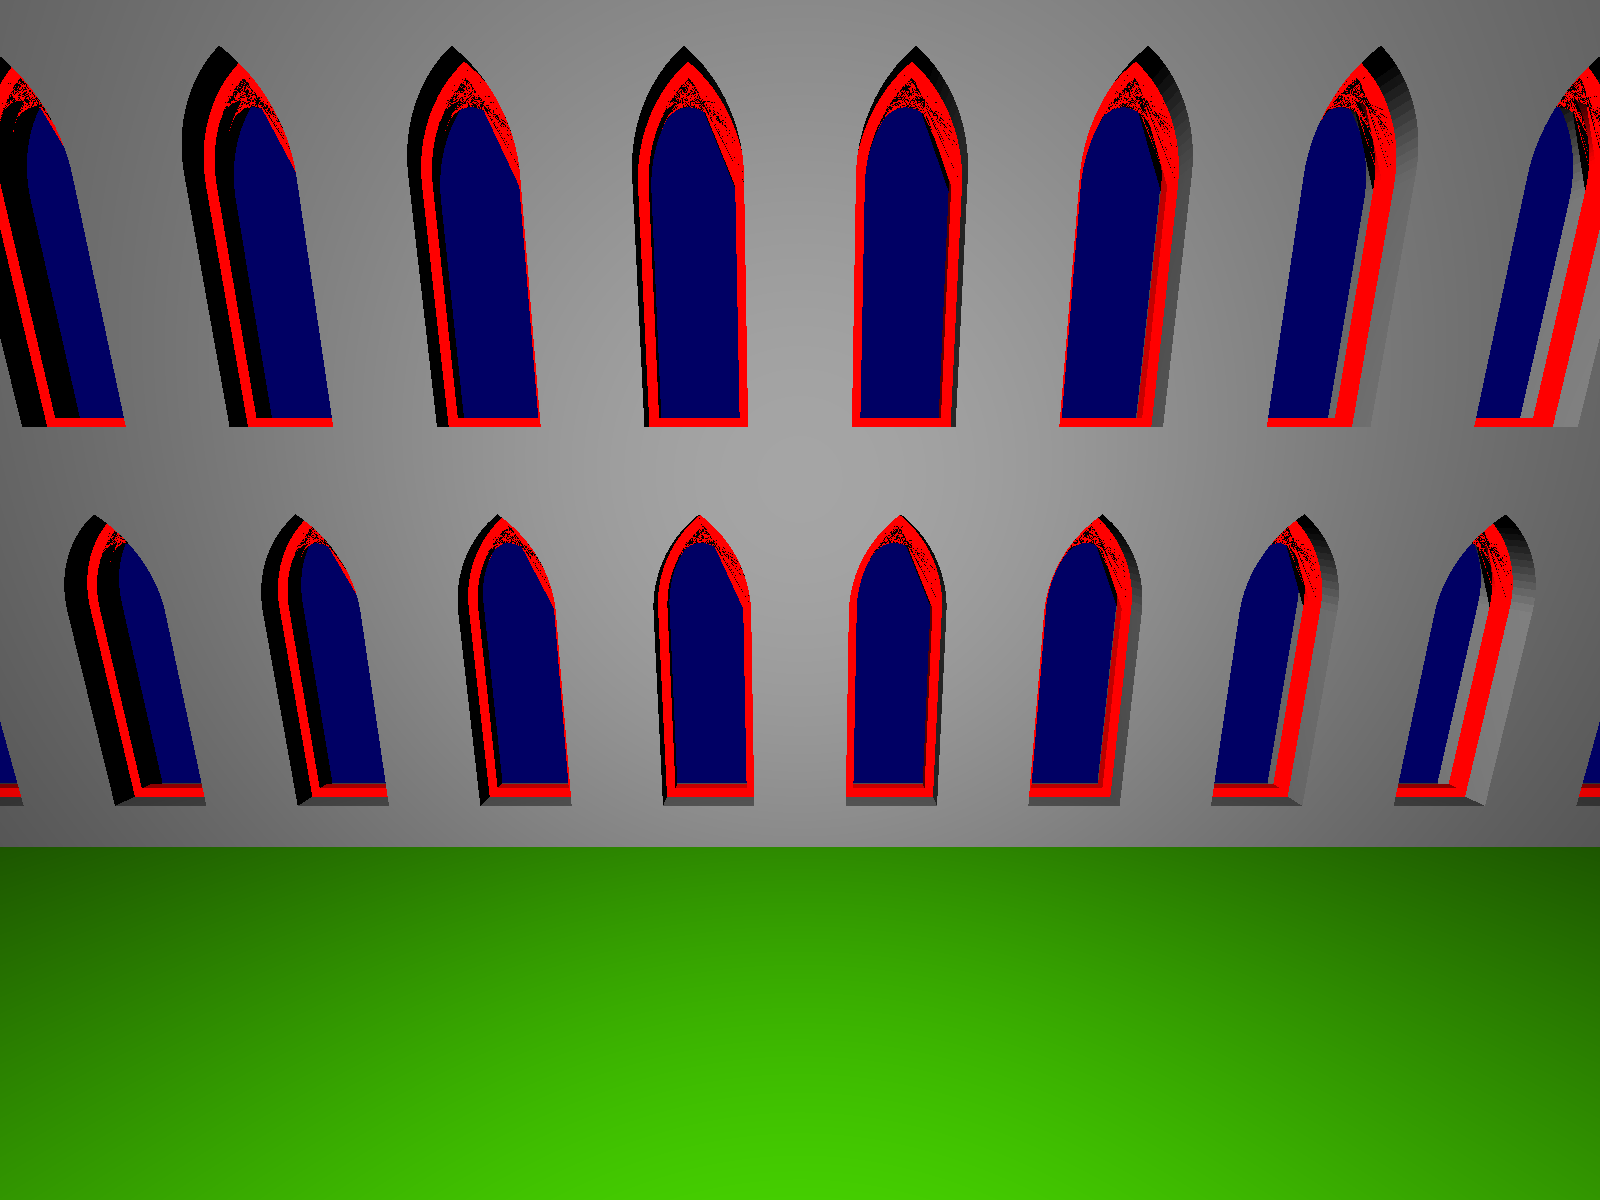
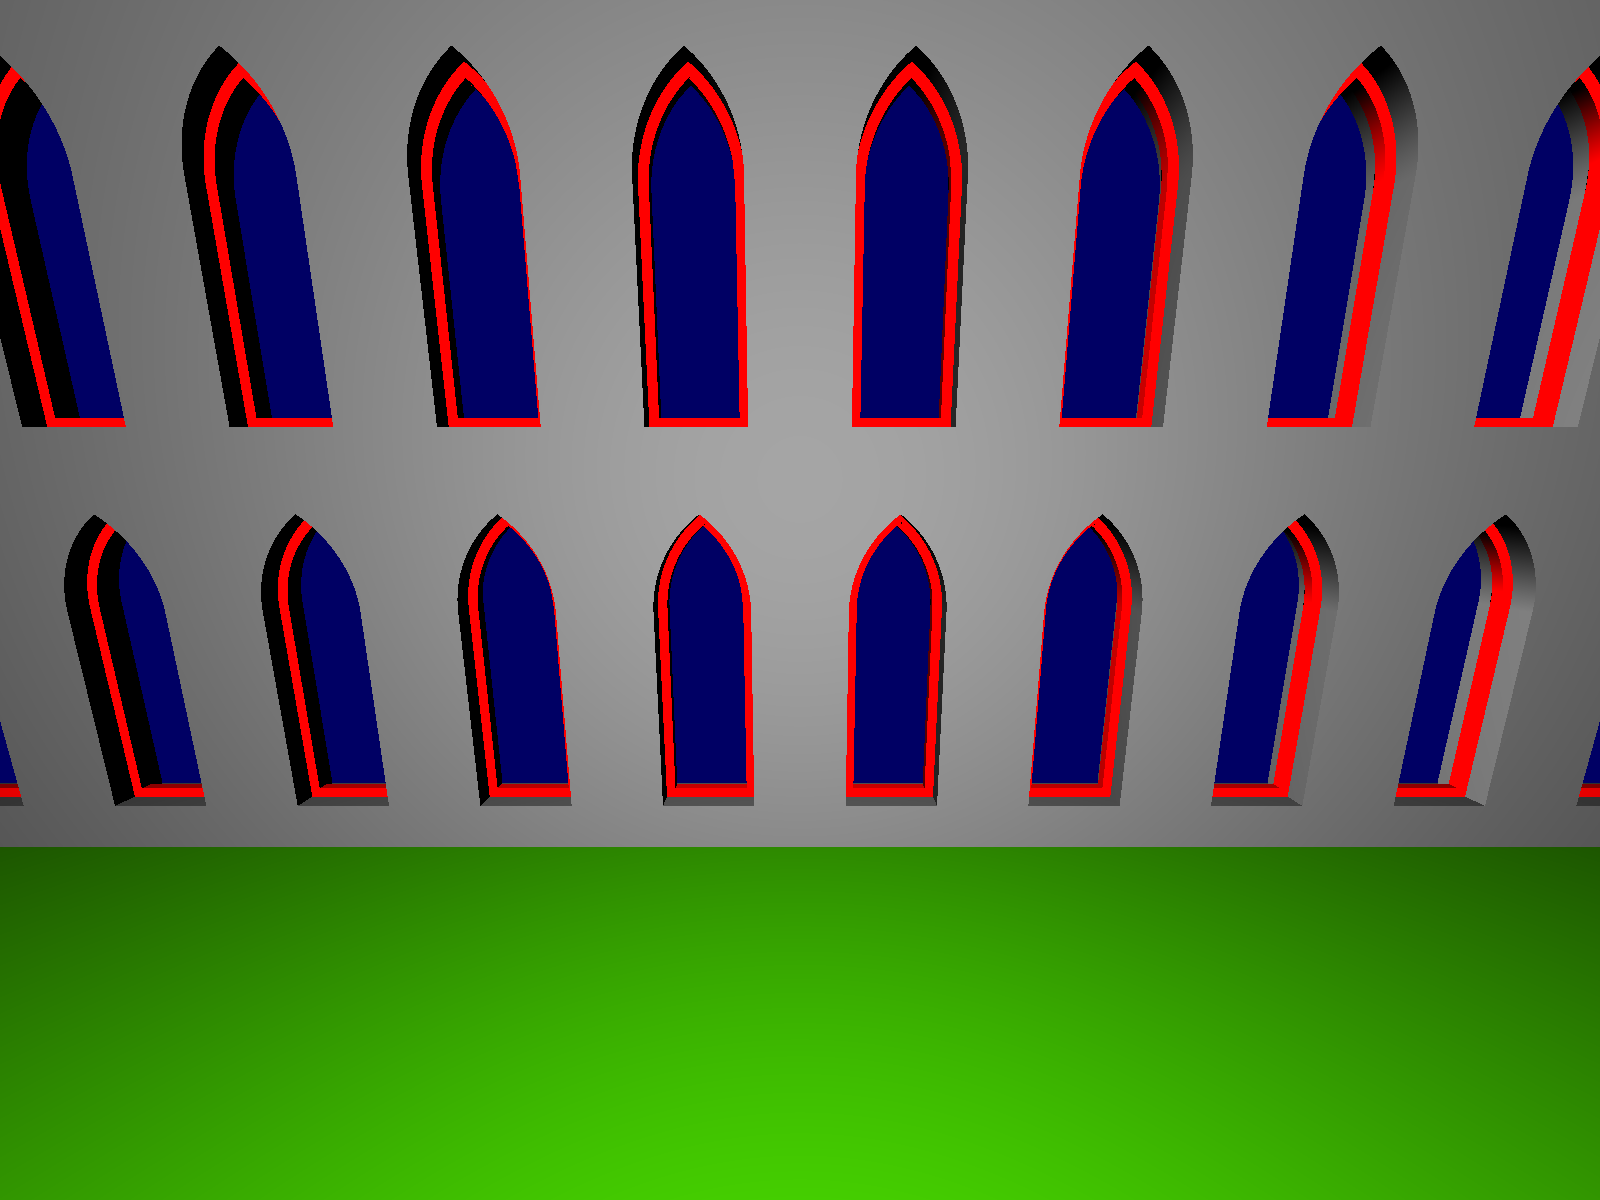
outer window tracery fixed for now

diff --git a/gothic.go b/gothic.go
@@ -13,7 +13,7 @@ import (
 
 // an arch consists of two lists of points:
 // - all points in the left arch (including the top point)
-// - all points in the right arch (excluding top point)
+// - all points in the right arch (including top point)
 type arch struct {
 	left  []m.Vector
 	right []m.Vector
@@ -23,51 +23,71 @@ type arch struct {
 // mL and mR are parameters instead of calculated from excess here, so that this function
 // can be used for calculating offset for an arch too
 func createArch(pL, pR, mL, mR m.Vector, numPoints int) arch {
-	// points returns a list of n points on the circle with radius r
-	// around a given midpoint, starting from the right and going counterclockwise
-	// the first quarter of points form the upper right quarter of the circle
-	// and the second quarter of points form the upper left quarter
-	// the left and right arc of the arch are subsets of these points,
-	// since the circles meet earlier if the excess is greater than 0.5
-
+	// generate left and right arc up until their intersection point (top)
 	// the top of the arch is given by translating the middle of line pLpR up with y
 	// where y is sqrt(pLpR * (r-(pLpR/4))), where r is the circle radius
 
 	// assumption: length of mR-pR given as equal
 	r := m.VectorFromTo(mL, pL).Length()
-	circle := gen.NewCircle(func(t float64) float64 { return r }, numPoints)
 
 	pLpR := m.VectorFromTo(pL, pR).Length()
 	middle := pL.Add(m.VectorFromTo(pL, pR).Times(0.5))
 	y := math.Sqrt(pLpR * (r - (pLpR / 4.0)))
 	top := middle.Add(m.Vector{0, y, 0})
 
-	// TODO: generate the quarter circle instead of picking points from the full one
-	cL := circle.Points(mL, ex, ey, 0)
-	upperLeftArc := []m.Vector{}
-	for i := numPoints / 2; i >= numPoints/4; i-- {
-		p := cL[i]
-		if p.X > top.X {
-			break
-		}
-		upperLeftArc = append(upperLeftArc, p)
-	}
+	upperLeftArc := leftQuarterCirclePoints(mL, r, numPoints, top)
 	upperLeftArc = append(upperLeftArc, top)
 
-	cR := circle.Points(mR, ex, ey, 0)
 	upperRightArc := []m.Vector{top}
-	for i := numPoints / 4; i >= 0; i-- {
-		p := cR[i]
-		if p.X <= top.X {
-			continue
-		}
-		upperRightArc = append(upperRightArc, p)
-	}
+	upperRightArc = append(upperRightArc, rightQuarterCirclePoints(mR, r, numPoints, top)...)
 
 	return arch{
 		left:  upperLeftArc,
 		right: upperRightArc,
 	}
+}
+
+// start at pi and rotate clockwise until p.x > top.x
+// because we might intersect with right arc before quarter circle is done
+func leftQuarterCirclePoints(p m.Vector, r float64, numPoints int, top m.Vector) []m.Vector {
+	ex := m.Vector{1, 0, 0}
+	ey := m.Vector{0, 1, 0}
+	angle := (1 / (float64(numPoints))) * (math.Pi / 2.0)
+	l := []m.Vector{}
+	for i := 0; i < numPoints; i++ {
+		xVector := ex.Times(r * math.Cos((float64(numPoints-i)*angle)+(math.Pi/2.0)))
+		yVector := ey.Times(r * math.Sin((float64(numPoints-i)*angle)+(math.Pi/2.0)))
+		newP := p.Add(xVector).Add(yVector)
+		if newP.X > top.X {
+			break
+		}
+		l = append(l, newP)
+	}
+	return l
+}
+
+// start at 0 and rotate counterclockwise until p.x < top.x
+// because we might intersect with left arc before quarter circle is done
+// note: we want clockwise order so we reverse at the end
+func rightQuarterCirclePoints(p m.Vector, r float64, numPoints int, top m.Vector) []m.Vector {
+	ex := m.Vector{1, 0, 0}
+	ey := m.Vector{0, 1, 0}
+	angle := (1 / (float64(numPoints))) * (math.Pi / 2.0)
+	l := []m.Vector{}
+	for i := 0; i < numPoints; i++ {
+		xVector := ex.Times(r * math.Cos(float64(i)*angle))
+		yVector := ey.Times(r * math.Sin(float64(i)*angle))
+		newP := p.Add(xVector).Add(yVector)
+		if newP.X < top.X {
+			break
+		}
+		l = append(l, newP)
+	}
+	out := make([]m.Vector, len(l))
+	for i, v := range l {
+		out[len(l)-1-i] = v
+	}
+	return out
 }
 
 type archWindowWallParams struct {
@@ -83,7 +103,7 @@ type archWindowWallParams struct {
 	depth float64
 	// height of upper segment endpoints pL and pR
 	pLpRY float64
-	// number of points on a full circle
+	// number of points on a quarter circle arc
 	numPoints int
 }
 
@@ -172,7 +192,7 @@ type archWindowTraceryParams struct {
 	// bpL and bpR, left and right bottom points of the window
 	bpL m.Vector
 	bpR m.Vector
-	// number of points on a full circle
+	// number of points on a quarter circle arc
 	numPoints int
 }
 
@@ -187,10 +207,10 @@ func archWindowTracery(params archWindowTraceryParams) m.Object {
 
 	ipL := m.Vector{params.pL.X + params.offset, params.pL.Y, params.pL.Z}
 	ipR := m.Vector{params.pR.X - params.offset, params.pR.Y, params.pR.Z}
-	// TODO: note this *2 is so that innerarch has at least as many points as outerarch
-	// otherwise, gen.JoinPoints will throw an indexoutofbounds exception
-	// to solve this issue, fix the above TODO in createArch()
-	innerArch := createArch(ipL, ipR, mL, mR, params.numPoints*2)
+	// TODO: this hack holds up reasonably well but is of course incorrect
+	// we still dont know how to enforce equal points on outer/inner arch
+	innerPoints := int(float64(params.numPoints) * 1.2)
+	innerArch := createArch(ipL, ipR, mL, mR, innerPoints)
 
 	ibpL := m.Vector{params.bpL.X + params.offset, params.bpL.Y + params.offset, params.bpL.Z}
 	ibpR := m.Vector{params.bpR.X - params.offset, params.bpR.Y + params.offset, params.bpR.Z}
